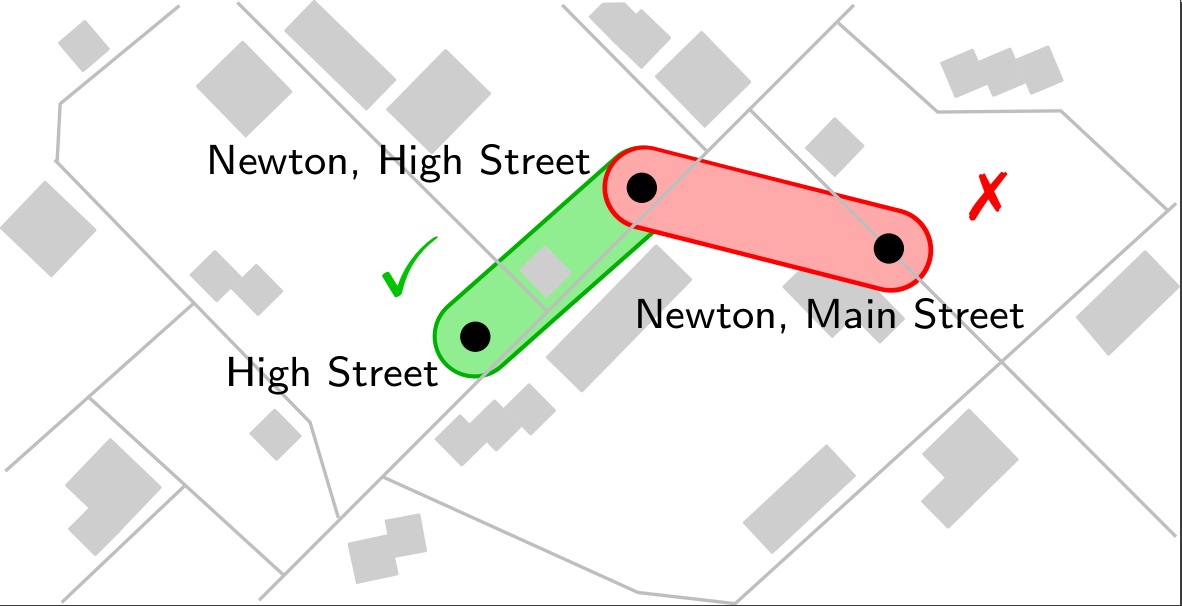
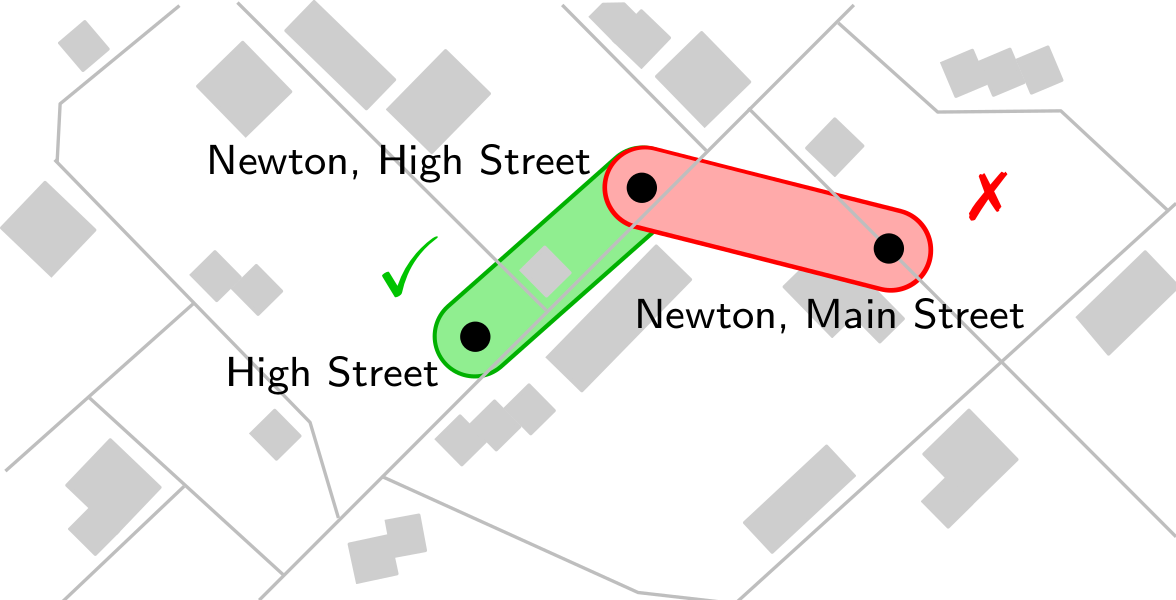
update img

diff --git a/README.md b/README.md
@@ -4,7 +4,8 @@
 
 Framework for station similarity classification.
 
-[![Two stations, marked by 3 station identifiers, in the fictional town of Newton.](example.png?raw=true)](example.png?raw=true)
+[![Two stations, marked by 3 station identifiers, in the fictional town of Newton.](example_res.png?raw=true)](example.png?raw=true)
+*Three station identifiers of two stations in the fictional town of Newton, and some of their similarity relationships.*
 
 ## Requirements
 
